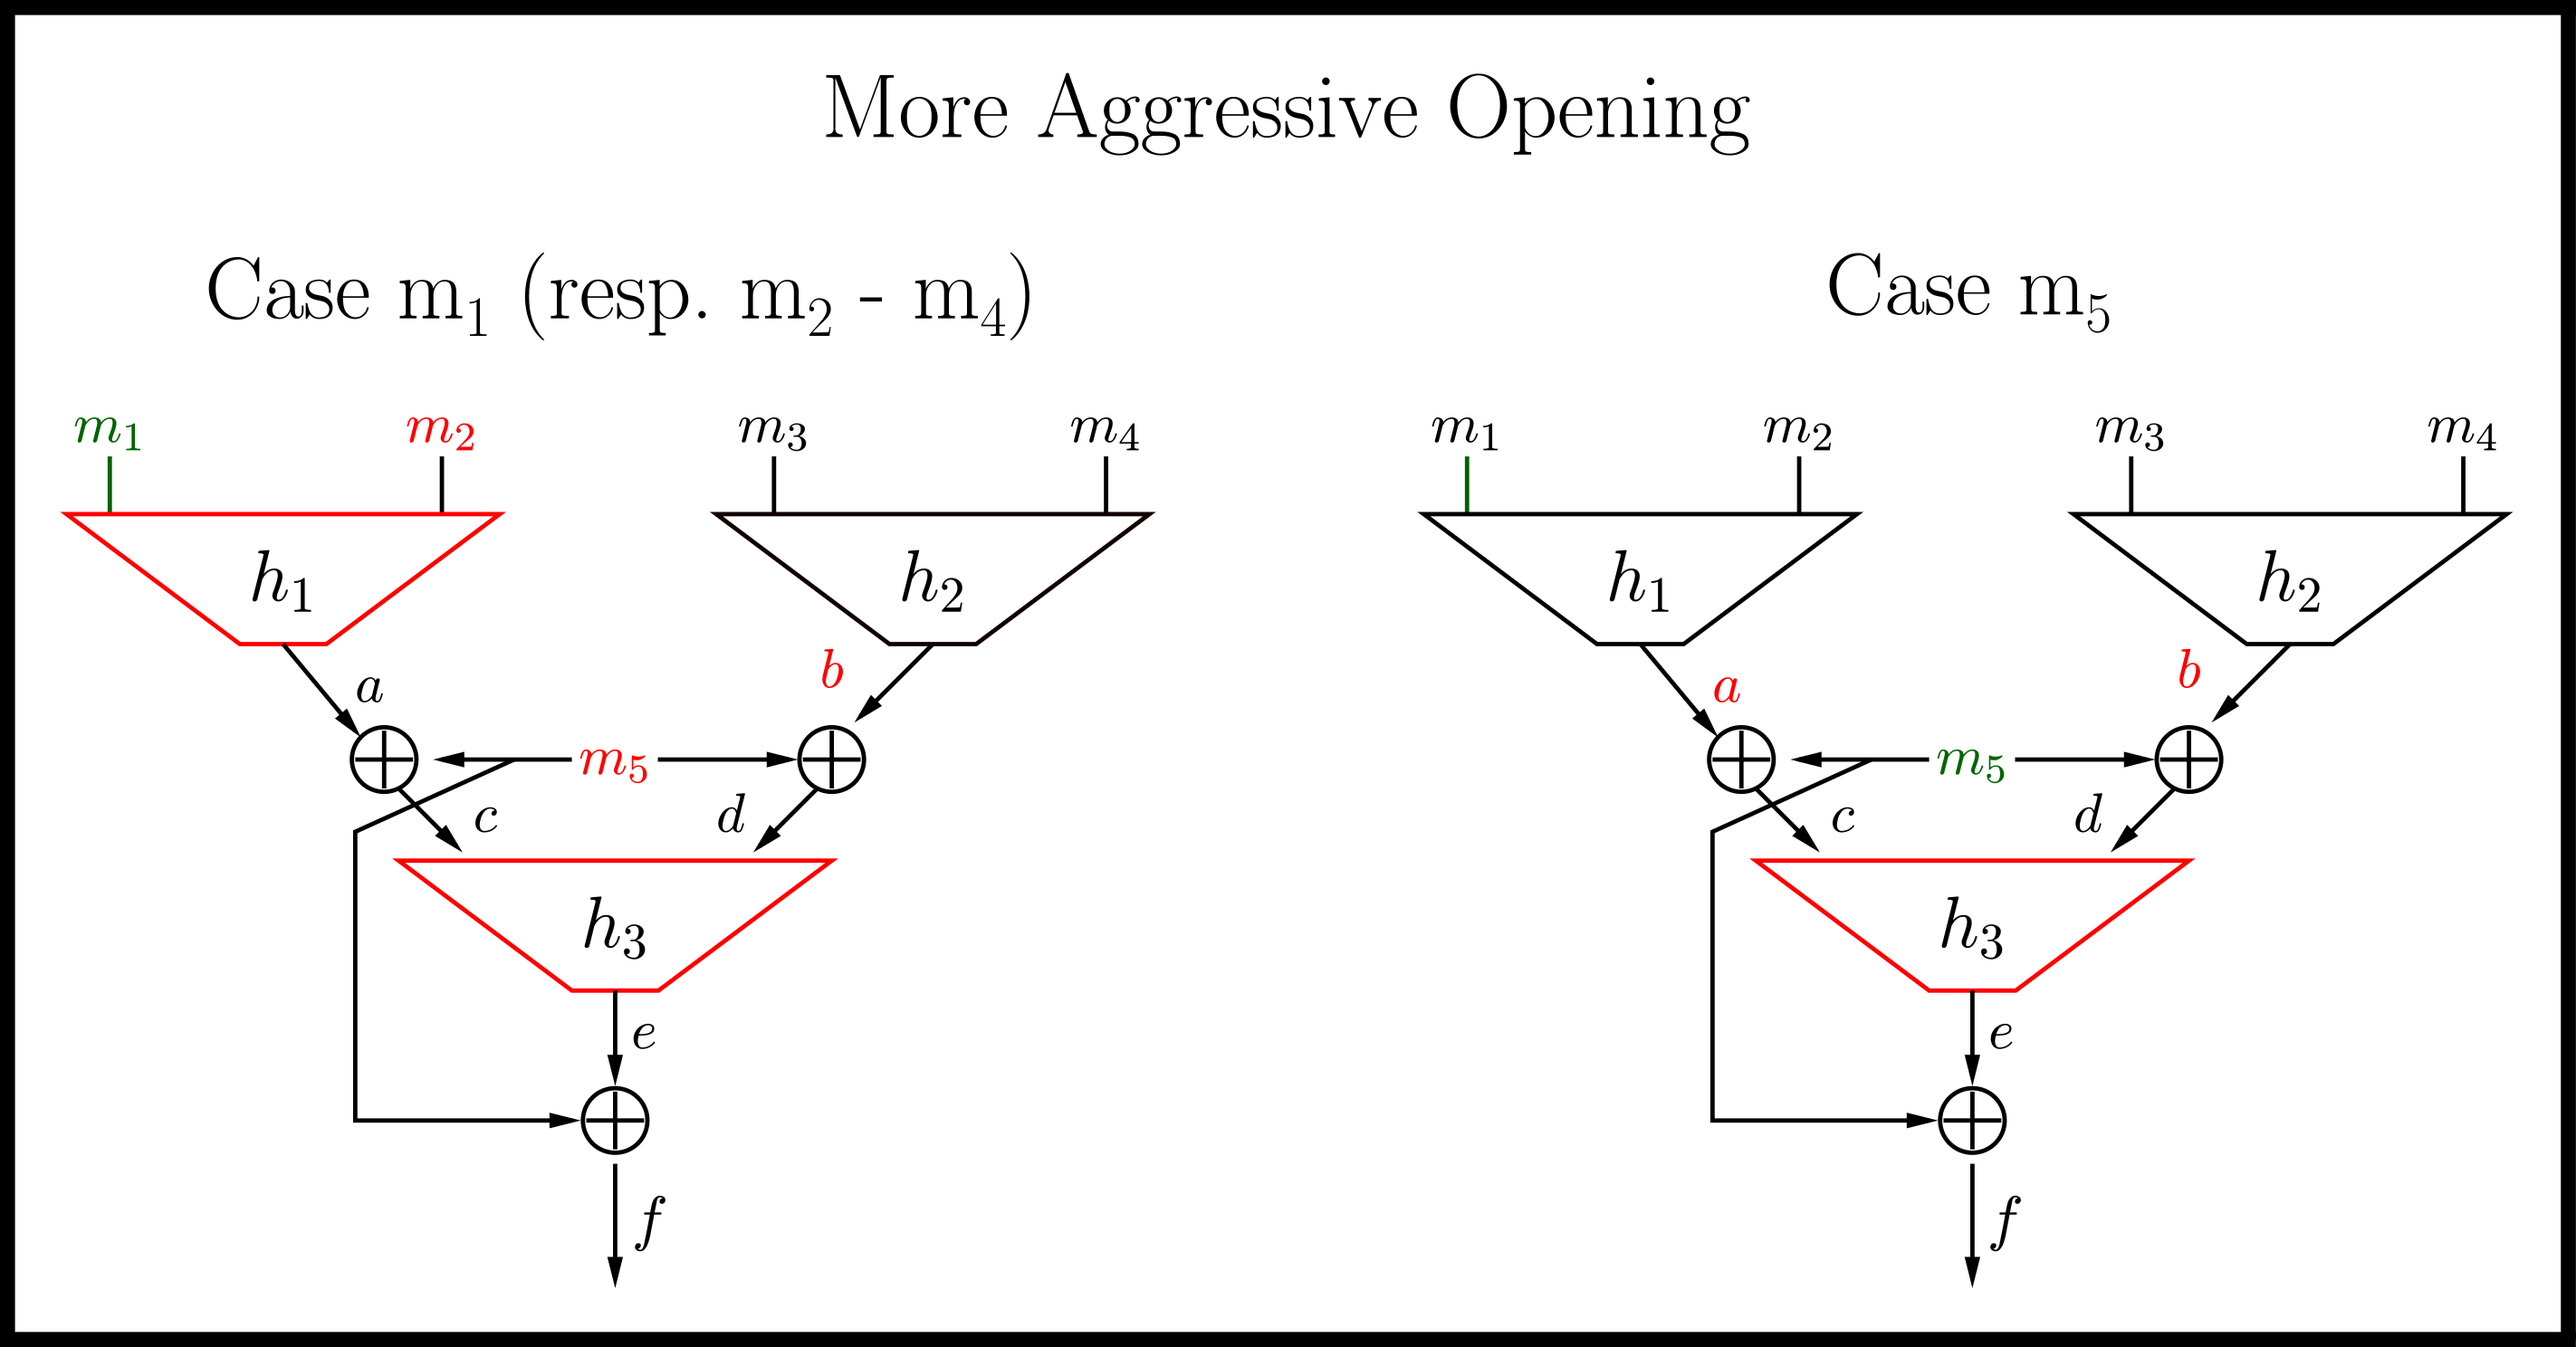
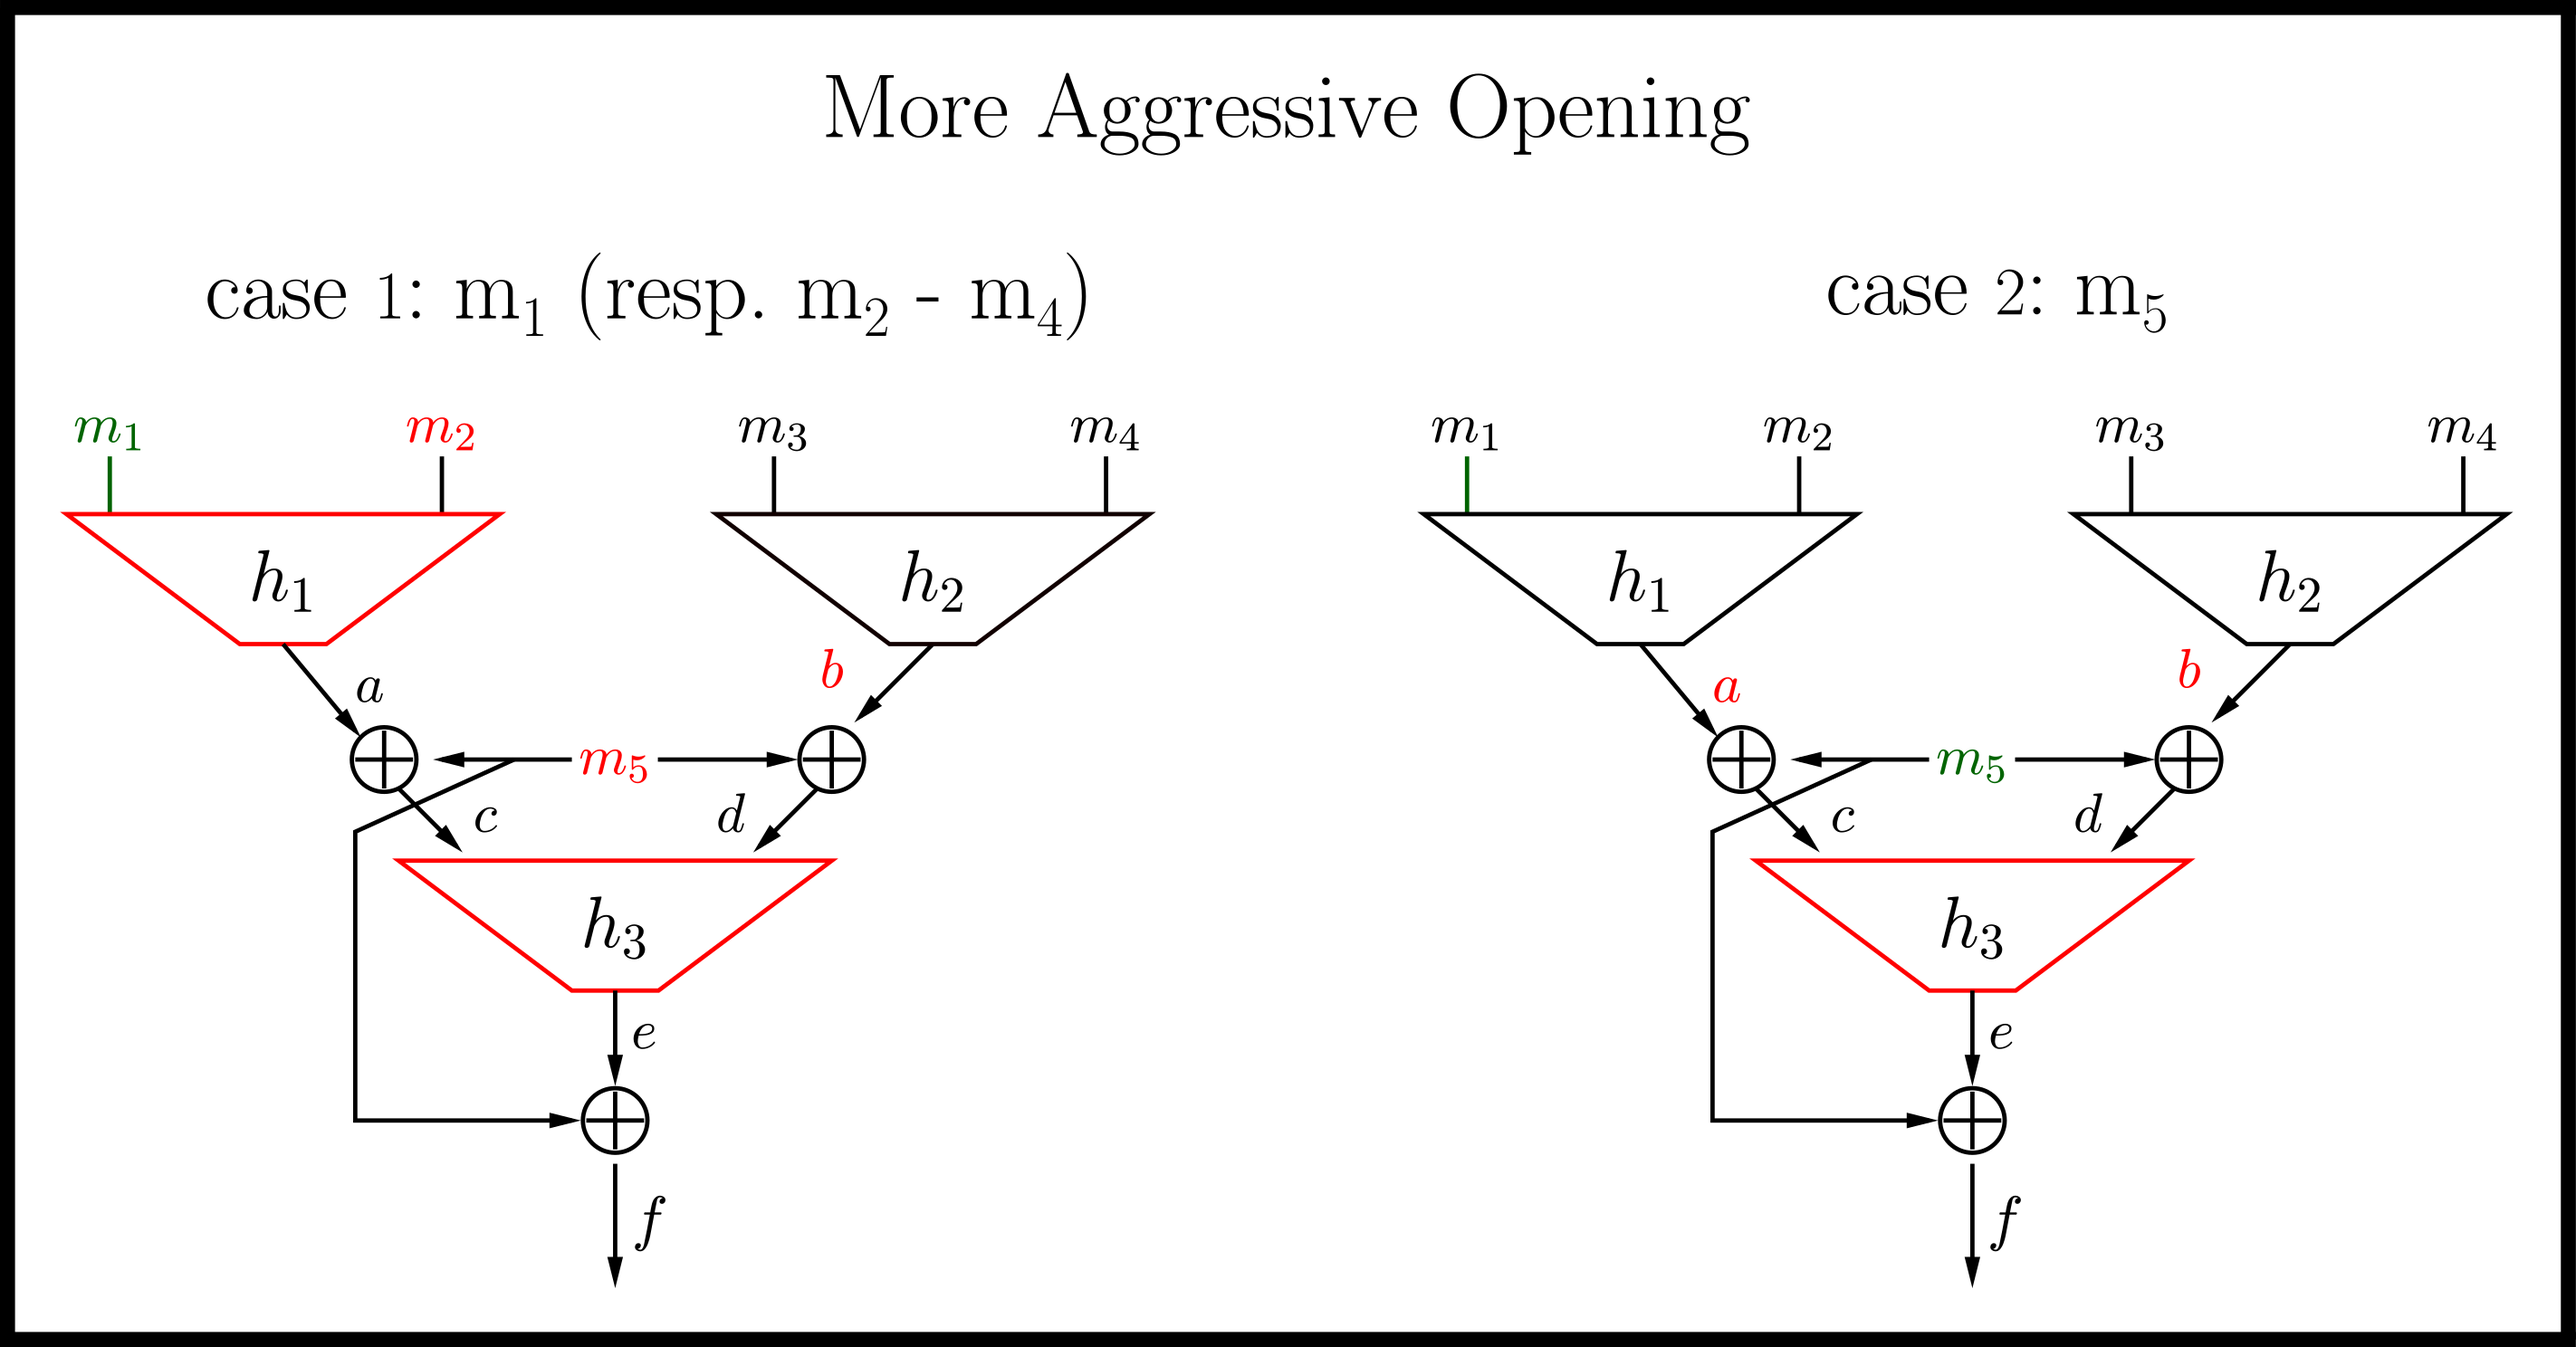
explained more aggressive: two cases in methods-chapter
also adjusted more aggressive picture to the two cases

Changed region(s): [[0.0619, 0.1855, 0.433, 0.2473], [0.7114, 0.1855, 0.8351, 0.2473]]

diff --git a/chapters/methods.tex b/chapters/methods.tex
@@ -148,13 +148,33 @@ The performance of \extree is compared to the Aggressive Opening of Dodis et al.
 
 \subsection{More Aggressive Opening}
 \label{sec:more_aggr_opening}
-In this work, the new opening method \textit{More Aggressive Opening} is proposed, see Figure~\ref{img:t5_more_aggr_opening}. It has better overall performance than Conservative- and Aggressive Opening (see Section~\ref{sec:aggr_opening} and \ref{sec:conserv_opening}) for the signing and verifying process. But notably, the length of the authentication is not constant.
-There are two cases distinguished for on \tfblock: 
+In this work, the new opening method \textit{More Aggressive Opening} is proposed, see Figure~\ref{img:t5_more_aggr_opening}. It has better overall performance than Conservative- and Aggressive Opening (see Section~\ref{sec:aggr_opening} and \ref{sec:conserv_opening}) for the signing and verifying process, see Table~\ref{table:more_aggr_opening}. But notably, the length of the authentication path is \textbf{not} constant.
+There are two cases distinguished for one \tfblock:
+
+\begin{itemize}
+\item \textbf{Case~1}: The possible opening nodes are $m_i, i \in \{1,2,3,4\}$. For a given opening node $m_i$, the function $open_{auth}$ returns the authentication path for the corresponding \tfblock:
+\begin{align}
+open_{auth}(m_1) = (m_2, m_5, h_2(m_3, m_4)) = (m_2, m_5, b) \label{eq:more_aggr_m1_example} \\
+open_{auth}(m_2) = (m_1, m_5, h_2(m_3, m_4)) = (m_1, m_5, b) \\
+open_{auth}(m_3) = (m_4, m_5, h_1(m_1, m_2)) = (m_4, m_5, a) \\
+open_{auth}(m_4) = (m_3, m_5, h_1(m_1, m_2)) = (m_3, m_5, a)
+\end{align} 
+An example of $m_1$ as opening node is depicted on the left side of Figure~\ref{img:t5_more_aggr_opening}: The signer is putting the elements $m_2, m_5, b$ in the authentication path (see Equation~\ref{eq:more_aggr_m1_example}). The verifier needs two hash calls ($h_1, h_3$) to calculate the path to the root $f$.
+Therefore, the authentication path has always three elements and the verifier always needs two hash calls to calculate the path to the root of one \tfblock for case~1.
+
+\item \textbf{Case~2}: The opening node is $m_5$. This case is depicted on the right side of Figure~\ref{img:t5_more_aggr_opening}. For $m_5$ as opening node, the function $open_{auth}$ returns the authentication path for the corresponding \tfblock:
+\begin{equation}
+\label{eq:more_aggr_opening_m5_example}
+open_{auth}(m_5) = (h_1(m_1, m_2), h_2(m_3, m_4)) = (a, b)
+\end{equation}
+An example of $m_5$ as opening node is depicted on the right side of Figure~\ref{img:t5_more_aggr_opening}: The signer is putting the elements $a, b$ in the authentication path (see Equation~\ref{eq:more_aggr_opening_m5_example}). The verifier needs one hash call $h_3$ to calculate the path to the root $f$.
+Therefore, the authentication path has always two elements and the verifier always needs one hash call to calculate the path to the root for one \tfblock for case~2.
+\end{itemize} 
 
 \begin{figure}
 \centering
 \includegraphics[]{images/Methods/more_aggr_opening.png}
-\caption{More Aggressive Opening for one $T_5$-Block, with case differentiation. The green variable denotes the opening node, the red nodes are given in the authentication path the respective $T_5$-Block. The hash functions denoted in red have to be calculated by the verifier to get the path for this $T_5$-Block.}
+\caption{More Aggressive Opening for one \tfblock, with case differentiation. The green variable denotes the opening node, the red nodes are given in the authentication path the respective \tfblock. The hash functions denoted in red have to be calculated by the verifier to get the path for this \tfblock.}
 \label{img:t5_more_aggr_opening}
 \end{figure}
 
@@ -164,7 +184,7 @@ There are two cases distinguished for on \tfblock:
  \hline\noalign{\smallskip}
  \multicolumn{3}{c}{\textbf{More Aggressive Opening}} \\
  \hline\noalign{\smallskip}
- & case $m_i, i \in \{1,2,3,4\}$ & case $m_5$ \\
+ & case 1: $m_i, i \in \{1,2,3,4\}$ & case 2: $m_5$ \\
  \# hashcalls & 2 & 1 \\
  \# el. in auth. path & 3 & 2 \\
  \hline
